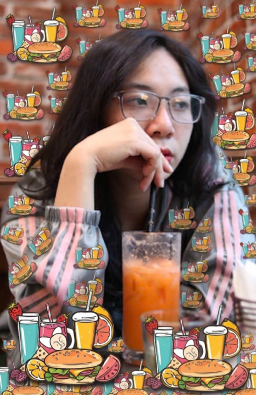
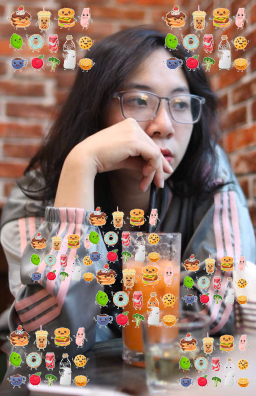
- code python ghép đồ dùng (bỏ nền trắng) vào 4 góc của ảnh gốc, lặp lại 4 lần vào các vị trí ngẫu nhiên của ảnh nhưng chồng lấn lên nhau ít nhất (không chèn vào hình vuông cạnh 1/2 chiều rộng ảnh ở nửa trên ảnh)

diff --git a/coordinate.py b/coordinate.py
@@ -1,6 +1,7 @@
 import gradio as gr
 from PIL import Image, ImageSequence
-import os, threading, time
+import os, threading, time, cv2, random
+import numpy as np
 from dotenv import load_dotenv
 
 # Load biến môi trường từ file .env
@@ -16,6 +17,12 @@ REALTIME = False if int(REALTIME_) == 0 else True
 CHANGESTATUSTIME = os.getenv("CHANGESTATUSTIME", 10)
 
 offsets = [(-5, 0), (5, 0), (0, -5), (0, 5), (0, 0), (-10, 0), (10, 0), (0, -10), (0, 10), (0, 0), ]
+
+
+def readimg(outna):
+    if not outna.endswith(EXT_OF_IMG):
+        outna += EXT_OF_IMG
+        return cv2.imread(f"{IMAGE_DIR}{os.sep}{outna}")
 
 
 def create_gif(gif_name, *list_of_path):
@@ -47,6 +54,99 @@ def create_gif(gif_name, *list_of_path):
         duration=500,   # thời gian mỗi frame (ms)
         loop=0          # 0 = lặp vô hạn
     )
+
+
+def overlay_items(item_path, num_items=10, min_ratio=0.3, max_ratio=0.4, bg_path="base", activ_name="eat"):
+    bg = readimg(bg_path)
+    item = readimg(item_path)
+    if bg is None or item is None:
+        print("Không đọc được ảnh!")
+        return
+
+    h_bg, w_bg, _ = bg.shape
+
+    # --- bỏ nền trắng ---
+    gray = cv2.cvtColor(item, cv2.COLOR_BGR2GRAY)
+    _, mask = cv2.threshold(gray, 240, 255, cv2.THRESH_BINARY_INV)
+    b, g, r = cv2.split(item)
+    item_rgba = cv2.merge([b, g, r, mask])
+
+    result = bg.copy()
+
+    # --- vùng cấm: hình vuông cạnh 1/2 chiều rộng ảnh, ở nửa trên ---
+    forbidden_size = int(w_bg * 0.5)
+    forbidden_xmin = (w_bg - forbidden_size) // 2
+    forbidden_xmax = forbidden_xmin + forbidden_size
+    forbidden_ymin = 0
+    forbidden_ymax = h_bg // 2
+
+    placed_boxes = []
+
+    def place_item(x, y, target_w, target_h, resized):
+        rgb = resized[:, :, :3]
+        alpha = resized[:, :, 3] / 255.0
+        alpha_inv = 1.0 - alpha
+        for c in range(3):
+            result[y:y+target_h, x:x+target_w, c] = (
+                alpha * rgb[:, :, c] +
+                alpha_inv * result[y:y+target_h, x:x+target_w, c]
+            )
+        placed_boxes.append((x, y, x+target_w, y+target_h))
+
+    def resize_item():
+        ratio = random.uniform(min_ratio, max_ratio)
+        target_w = int(w_bg * ratio)
+        target_h = int(item_rgba.shape[0] * (target_w / item_rgba.shape[1]))
+        resized = cv2.resize(item_rgba, (target_w, target_h), interpolation=cv2.INTER_AREA)
+        return target_w, target_h, resized
+
+    # --- THAY ĐỔI: chèn vào 4 góc ---
+    corners = [(0, 0), (w_bg, 0), (0, h_bg), (w_bg, h_bg)]
+    for cx, cy in corners:
+        target_w, target_h, resized = resize_item()
+        x = max(0, cx - target_w if cx > 0 else 0)
+        y = max(0, cy - target_h if cy > 0 else 0)
+        place_item(x, y, target_w, target_h, resized)
+
+    # --- THAY ĐỔI: thêm 4 vị trí ngẫu nhiên ---
+    for _ in range(4):
+        target_w, target_h, resized = resize_item()
+        for _ in range(100):
+            x = random.randint(0, w_bg - target_w)
+            y = random.randint(0, h_bg - target_h)
+
+            # kiểm tra vùng cấm
+            overlap_forbidden = not (x + target_w < forbidden_xmin or x > forbidden_xmax or
+                                     y + target_h < forbidden_ymin or y > forbidden_ymax)
+            if overlap_forbidden:
+                continue
+
+            # kiểm tra chồng lấn
+            new_box = (x, y, x+target_w, y+target_h)
+            too_much_overlap = False
+            for bx in placed_boxes:
+                ixmin = max(new_box[0], bx[0])
+                iymin = max(new_box[1], bx[1])
+                ixmax = min(new_box[2], bx[2])
+                iymax = min(new_box[3], bx[3])
+                if ixmin < ixmax and iymin < iymax:
+                    inter_area = (ixmax - ixmin) * (iymax - iymin)
+                    box_area = (new_box[2]-new_box[0])*(new_box[3]-new_box[1])
+                    if inter_area / box_area > 0.2:
+                        too_much_overlap = True
+                        break
+            if too_much_overlap:
+                continue
+
+            place_item(x, y, target_w, target_h, resized)
+            break
+
+    if not activ_name.endswith(EXT_OF_IMG):
+        activ_name += EXT_OF_IMG
+    cv2.imwrite(f"{IMAGE_DIR}{os.sep}{activ_name}", result)
+    print(f"Đã lưu ảnh kết quả {activ_name}")
+    cv2.waitKey(0)
+    cv2.destroyAllWindows()
 
 
 def thre_hold(hunger, energy, happiness):
@@ -131,5 +231,9 @@ class VirtualPet:
 
 
 if __name__ == "__main__":
-    for imgnam in [ina for ina in os.listdir(IMAGE_DIR) if ina.endswith(EXT_OF_IMG)]:
-        create_gif(imgnam[: -4], imgnam, )
+    create_gif('base', 'base', )
+    for activ_name in (('play__', "play", ), ('food', "eat", ), ('moon_star', "sleep"), ):
+        overlay_items(activ_name[0], num_items=8, min_ratio=0.3, max_ratio=0.4, bg_path="base", activ_name=activ_name[1])
+        create_gif(activ_name[1], activ_name[1], )
+    # for imgnam in [ina for ina in os.listdir(IMAGE_DIR) if ina.endswith(EXT_OF_IMG)]:
+    #     create_gif(imgnam[: -4], imgnam, )
